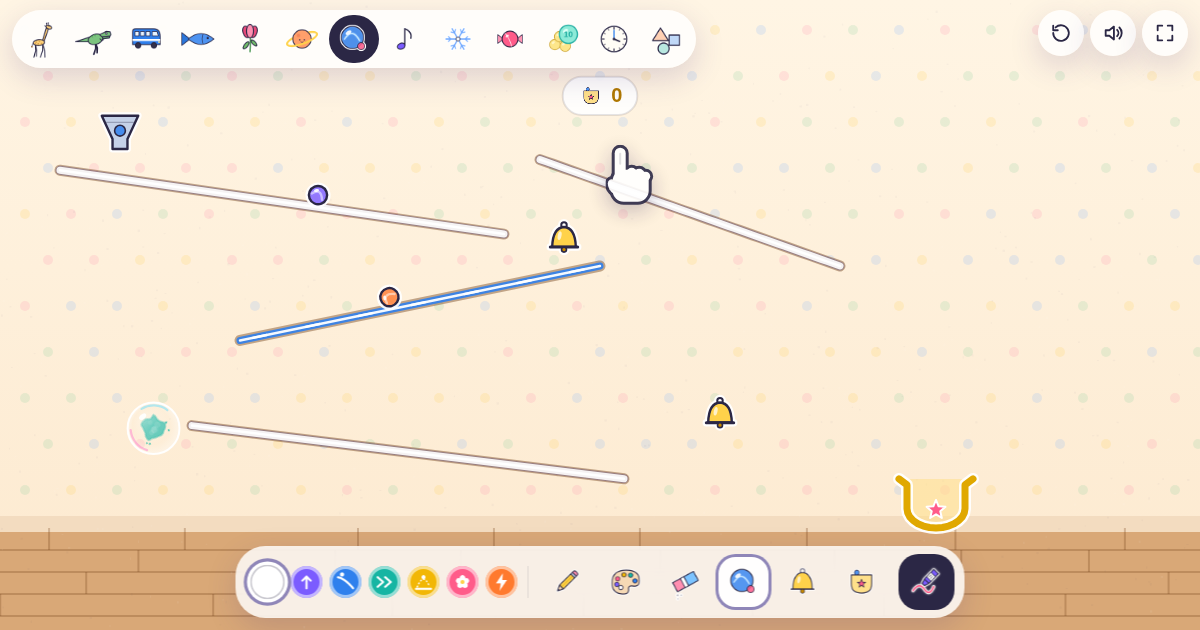
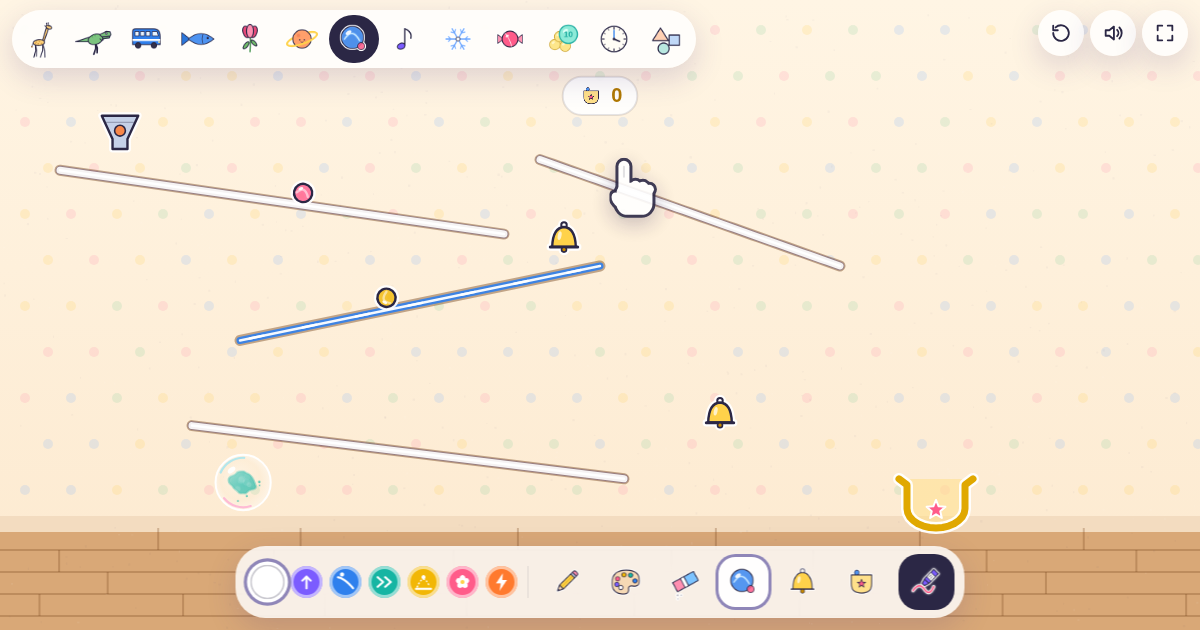
共有画像（OGP）を最新の見た目で撮り直し
キャッシュされた古い画像が出ないよう画像URLにバージョンを付与

Claude-Session: https://claude.ai/code/session_01AmygcJU5xkEdZ9ffx6Y7Nr

diff --git a/index.html b/index.html
@@ -18,11 +18,11 @@
 <meta property="og:title" content="ゆびさきキャンバス">
 <meta property="og:description" content="線を描く・色を散らす・つまんで投げると世界が動き出す、子ども向けのタッチ対応キャンバス。どうぶつ・きょうりゅう・のりもの・うみ・おはな・うちゅう・ころころ・おんがく・ゆき・おかしの10の世界と、まるまる・とけい・かたちの学べる世界。">
 <meta property="og:url" content="https://nozomitaguchi.github.io/yubisaki-canvas/">
-<meta property="og:image" content="https://nozomitaguchi.github.io/yubisaki-canvas/ogp.png">
+<meta property="og:image" content="https://nozomitaguchi.github.io/yubisaki-canvas/ogp.png?v=20260926b">
 <meta name="twitter:card" content="summary_large_image">
 <meta name="twitter:title" content="ゆびさきキャンバス">
 <meta name="twitter:description" content="線を描く・色を散らす・つまんで投げると世界が動き出す、子ども向けのタッチ対応キャンバス。どうぶつ・きょうりゅう・のりもの・うみ・おはな・うちゅう・ころころ・おんがく・ゆき・おかしの10の世界と、まるまる・とけい・かたちの学べる世界。">
-<meta name="twitter:image" content="https://nozomitaguchi.github.io/yubisaki-canvas/ogp.png">
+<meta name="twitter:image" content="https://nozomitaguchi.github.io/yubisaki-canvas/ogp.png?v=20260926b">
 <style>
   html{color-scheme:light}
   body{margin:0}
